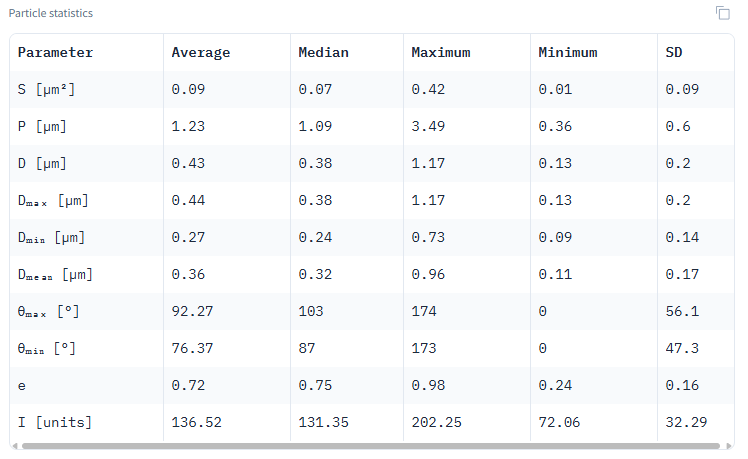
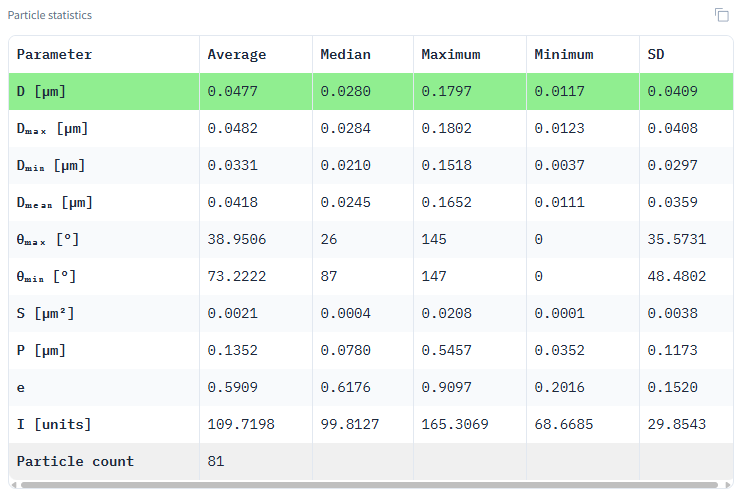
Optimized table with statistical processing results, added ability to select LLM, optimized user interface

diff --git a/particleanalyzer/core/ui.py b/particleanalyzer/core/ui.py
@@ -70,7 +70,7 @@ def create_interface(api_key):
             </a>
             """
             )
-            gr.Markdown("# 🔎 ParticleAnalyzer v0.1.24")
+            gr.Markdown("# 🔎 ParticleAnalyzer v0.1.25")
             gr.Markdown(
                 i18n(
                     "При помощи данного инструмента можно анализировать размерные характеристики частиц на изображениях SEM.<br>В случае проблем с сегментацией изображения или возникновения ошибок, пожалуйста, направляйте материалы на электронную почту: rybakov-ks@ya.ru"
@@ -148,9 +148,7 @@ def create_interface(api_key):
                             size="md",
                             icon=f'{assets_path("")}/icon/icons8-метла-50.png',
                         )
-                    # Таблица и графики на новой строке
-                    with gr.Row():
-                        label = gr.Label(label=i18n("Количество частиц"), visible=False)
+                        
                     # Таблица и графики на новой строке
                     with gr.Row():
                         # Таблица с характеристиками
@@ -182,6 +180,29 @@ def create_interface(api_key):
                         output_plot = gr.Plot(
                             label=i18n("Графики распределения"), visible=False
                         )
+                    with gr.Group(visible=False) as chatbot_row:
+                        with gr.Column(scale=1):
+
+                            model_llm = gr.Dropdown(
+                                ["deepseek/deepseek-chat:free", "deepseek/deepseek-chat-v3-0324", "google/gemini-2.0-flash-001", 
+                                "openai/gpt-4o-mini"],
+                                value="deepseek/deepseek-chat:free",
+                                label=i18n("Языковая модель (LLM)"),
+                            )
+                            with gr.Row() as chatbot_row2:
+                                chatbot = gr.Chatbot(
+                                    label=i18n("ИИ-интерпретация SEM-данных"),
+                                    height=600,
+                                    show_copy_all_button=True,
+                                    avatar_images=(None, f'{assets_path("")}/icon/ai.jpg'),
+                                    autoscroll=False,
+                                )
+                            llm_run = gr.Button(
+                                value=i18n("Запустить ИИ-анализ"),
+                                variant="primary",
+                                size="md",
+                                icon=f'{assets_path("")}/icon/ai.png',
+                            )
                     with gr.Row(visible=False) as question_row:
                         gr.Markdown(i18n("Вы удовлетворены качеством сегментации?"))
                     with gr.Row(visible=False) as buttons_row:
@@ -198,21 +219,6 @@ def create_interface(api_key):
                                 variant="stop",
                                 size="sm",
                                 icon=f'{assets_path("")}/icon/dislike.png',
-                            )
-                    with gr.Row(visible=False) as chatbot_row:
-                        with gr.Column(scale=1):
-                            with gr.Row(visible=False) as chatbot_row2:
-                                chatbot = gr.Chatbot(
-                                    label=i18n("ИИ-интерпретация SEM-данных"),
-                                    height=600,
-                                    show_copy_all_button=True,
-                                    avatar_images=(None, f'{assets_path("")}/icon/ai.jpg'),
-                                )
-                            llm_run = gr.Button(
-                                value=i18n("Запустить ИИ-анализ"),
-                                variant="primary",
-                                size="md",
-                                icon=f'{assets_path("")}/icon/ai.png',
                             )
                 with gr.Tab(i18n("Настройки")):
                     with gr.Row():
@@ -354,8 +360,6 @@ def create_interface(api_key):
                     output_plot,
                     output_table2,
                     download_output,
-                    label,
-                    label,
                     output_table,
                     output_plot,
                     output_table2,
@@ -366,11 +370,11 @@ def create_interface(api_key):
                     chatbot_row,
                 ],
             )
+            # llm_run.click(
+                # fn=chatbot_visibility, inputs=None, outputs=[chatbot_row2]
+            # )
             llm_run.click(
-                fn=chatbot_visibility, inputs=None, outputs=[chatbot_row2]
-            )
-            llm_run.click(
-                fn=llm_amalysis.analyze, inputs=[output_table], outputs=[chatbot]
+                fn=llm_amalysis.analyze, inputs=[output_table, model_llm], outputs=[chatbot]
             )
             scale_selector.change(
                 scale_input_visibility,
@@ -423,7 +427,6 @@ def create_interface(api_key):
                     output_plot,
                     in_image,
                     download_output,
-                    label,
                     output_image2,
                     output_table_image2,
                     question_row,
@@ -449,7 +452,6 @@ def create_interface(api_key):
                     output_plot,
                     in_image,
                     download_output,
-                    label,
                     output_image2,
                     output_table_image2,
                     question_row,

diff --git a/particleanalyzer/core/LLMAnalysis.py b/particleanalyzer/core/LLMAnalysis.py
@@ -13,8 +13,6 @@ class LLMAnalysis:
         self,
         api_key: str,
         provider: Literal["openrouter", "huggingface"] = "openrouter",
-        huggingface_model: str = "fireworks-ai",
-        openrouter_model: str = "deepseek/deepseek-chat:free",
     ):
         self.provider = provider
         self.api_key = api_key
@@ -24,10 +22,8 @@ class LLMAnalysis:
                 base_url="https://openrouter.ai/api/v1",
                 api_key=api_key,
             )
-            self.model = openrouter_model
         elif provider == "huggingface":
             self.client = InferenceClient(provider=huggingface_model, api_key=api_key)
-            self.model = huggingface_model
         else:
             raise ValueError("Неизвестный провайдер. Доступные варианты: 'openrouter', 'huggingface'")
         
@@ -93,7 +89,7 @@ class LLMAnalysis:
             "histogram": self._create_histogram(circ, num_bins)
         }
 
-    def analyze(self, df: pd.DataFrame) -> List[Tuple[None, str]]:
+    def analyze(self, df: pd.DataFrame, model_llm: str) -> List[Tuple[None, str]]:
         """Анализирует DataFrame с частицами и возвращает результаты LLM"""
         self.lang = LanguageContext.get_language()
         
@@ -106,6 +102,7 @@ class LLMAnalysis:
         
         try:
             prompt = self._build_prompt(stats, count_particles)
+            self.model = model_llm
             response = self._get_llm_response(prompt)
             return self._format_response(response)
         except Exception as e:

diff --git a/particleanalyzer/core/languages.py b/particleanalyzer/core/languages.py
@@ -114,6 +114,7 @@ translations = {
         "Утолщение": "Thickening",
         "ИИ-интерпретация SEM-данных": "AI Interpretation of SEM Data",
         "Запустить ИИ-анализ": "Launch AI analysis",
+        "Языковая модель (LLM)": "Language Model (LLM)", 
     },
     "ru": {
         "Подготовка...": "Подготовка...",
@@ -228,6 +229,7 @@ translations = {
         "Утолщение": "Утолщение",
         "ИИ-интерпретация SEM-данных": "ИИ-интерпретация SEM-данных",
         "Запустить ИИ-анализ": "Запустить ИИ-анализ",
+        "Языковая модель (LLM)": "Языковая модель (LLM)", 
     },
     "zh-cn": {
         "Подготовка...": "初始化中...",
@@ -342,6 +344,7 @@ translations = {
         "Утолщение": "加厚",
         "ИИ-интерпретация SEM-данных": "SEM数据的AI解读",
         "Запустить ИИ-анализ": "启动人工智能分析",
+        "Языковая модель (LLM)": "语言模型（法学硕士）", 
     },
     "zh-tw": {
         "Подготовка...": "初始化中...",
@@ -456,6 +459,7 @@ translations = {
         "Утолщение": "加厚",
         "ИИ-интерпретация SEM-данных": "SEM數據的AI解讀",
         "Запустить ИИ-анализ": "啟動人工智慧分析",
+        "Языковая модель (LLM)": "語言模型（法學碩士）", 
     },
 }
 

diff --git a/particleanalyzer/core/StatisticsBuilder.py b/particleanalyzer/core/StatisticsBuilder.py
@@ -80,8 +80,33 @@ class StatisticsBuilder:
                 round(self.df[col_map[k]].std(), self.round_value) for k in col_map
             ],
         }
+        
+        df = pd.DataFrame(stats)
+        
+        empty_row = [""] * len(df.columns)
+        empty_row[0] = self._get_translation("Количество частиц")
+        empty_row[1] = len(self.df)
+        count_row = pd.DataFrame([empty_row], columns=df.columns)
+        df = pd.concat([df, count_row], ignore_index=True)
+        
+        styled_df = (
+            df.style
+            .apply(lambda row: ['font-weight: bold' if i == 0 else '' for i in range(len(row))], axis=1)
+            .apply(lambda row: ['background-color: lightgreen' if row.name == 0 else '' for _ in row], axis=1)
+            .apply(lambda row: ['background-color: #f0f0f0' if row.name == len(df)-1 else '' for _ in row], axis=1)
+            .format(self._format_value)
+        )
 
-        return pd.DataFrame(stats)
+        return styled_df
+
+    def _format_value(self, value):
+        if not isinstance(value, (int, float)):  # если не число — не форматируем
+            return value
+        if pd.isnull(value):
+            return ""
+        if value == int(value):
+            return str(int(value))
+        return f"{value:.{self.round_value}f}"
 
     def build_distribution_fig(self, image):
         if self.df.empty:

diff --git a/particleanalyzer/core/utils.py b/particleanalyzer/core/utils.py
@@ -65,7 +65,7 @@ def reset_interface(scale_value):
     """Функция для сброса интерфейса"""
     return (
         {"background": None, "layers": [], "composite": None},  # Очищаем im
-        None,  # Очищаем output_image
+        None,                                    # Очищаем output_image
         pd.DataFrame(
             columns=[
                 "№",
@@ -97,7 +97,6 @@ def reset_interface(scale_value):
         gr.update(visible=False),  # Скрываем графики
         None,                      # Очищаем input_image
         gr.update(visible=False),  # Скрываем таблицу
-        gr.update(visible=False),  # Скрываем label
         None,                     # Очищаем output_image2
         (
             empty_df2 if scale_value == get_translation("Pixels") else empty_df2_2

diff --git a/particleanalyzer/core/ParticleAnalyzer.py b/particleanalyzer/core/ParticleAnalyzer.py
@@ -92,8 +92,6 @@ class ParticleAnalyzer:
             None,
             None,
             gr.update(visible=False),
-            None,
-            gr.update(visible=False),
             gr.update(visible=False),
             gr.update(visible=False),
             gr.update(visible=False),
@@ -214,8 +212,6 @@ class ParticleAnalyzer:
                 df,
                 fig,
                 stats_df,
-                gr.update(visible=True),
-                len(df),
                 gr.update(visible=True),
                 gr.update(visible=True),
                 gr.update(visible=True),

diff --git a/setup.py b/setup.py
@@ -8,7 +8,7 @@ def read_file(filename):
 
 setup(
     name="ParticleAnalyzer",
-    version="0.1.24", 
+    version="0.1.25", 
     packages=find_packages(exclude=['tests*']),
     package_data={
         'particleanalyzer': [
@@ -33,6 +33,11 @@ setup(
         'scipy',
         'tqdm',
         'ultralytics',
+        'huggingface_hub',
+        'openai',
+        'Requests',
+        'numpy',
+        'pandas',  
     ],
     python_requires='>=3.8',
     author="Kirill Rybakov",
